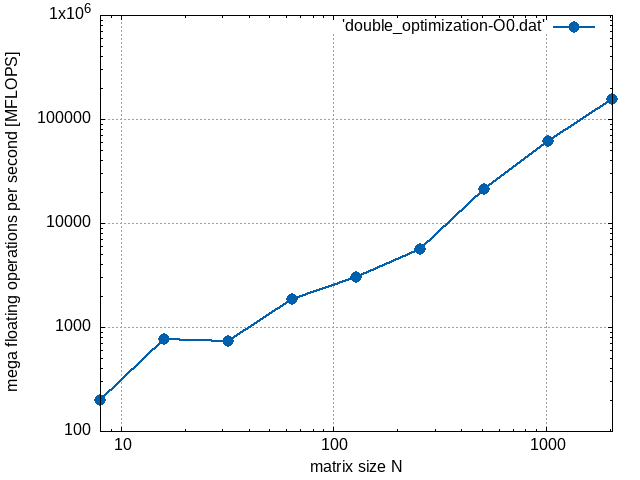
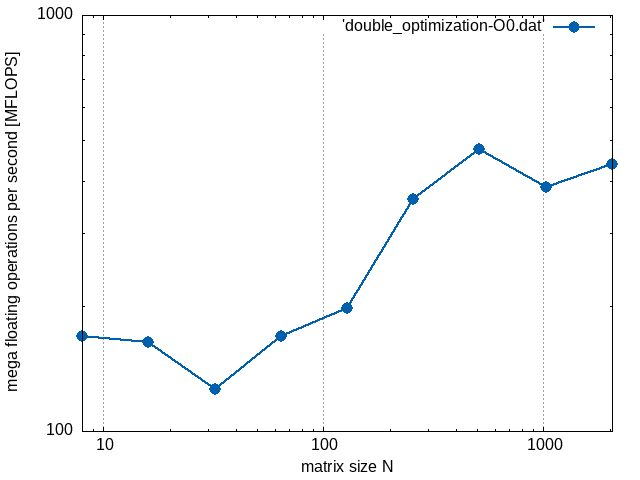
fix time extraction

diff --git a/ex03/solve_double_ijk.c b/ex03/solve_double_ijk.c
@@ -68,7 +68,7 @@ int main(int argc,char *argv[]) {
 
     double st, en;
 
-    st = e_time();
+    
     // inject random numbers
     int i;
     for(i = 0; i < N*N; i++) {
@@ -76,27 +76,29 @@ int main(int argc,char *argv[]) {
         B[i] = rand_double();
         C[i] = rand_double();
     }
-    en = e_time();
-
-    printf("The Elapsed time is %.16f sec\n", en-st);
 
     /* if you want to check whether this programm is correct,
        uncomment below code
-
+       
     printf("[B]\n");
     mat_print(B, N);
 
     printf("[C]\n");
     mat_print(C, N);
+    */
 
+    st = e_time();
     mat_mul(A, B, C, N);
+    en = e_time();
 
+    /*
     printf("[A]\n");
     mat_print(A, N);
-    
+    */
 
+    printf("The Elapsed time is %.16f sec\n", en-st);
+    
     free(A);
     free(B);
     free(C);
-    */
 }

diff --git a/ex03/solve_double_kji.c b/ex03/solve_double_kji.c
@@ -68,7 +68,6 @@ int main(int argc,char *argv[]) {
 
     double st, en;
 
-    st = e_time();
     // inject random numbers
     int i;
     for(i = 0; i < N*N; i++) {
@@ -76,27 +75,30 @@ int main(int argc,char *argv[]) {
         B[i] = rand_double();
         C[i] = rand_double();
     }
-    en = e_time();
-
-    printf("The Elapsed time is %.16f sec\n", en-st);
 
     /* if you want to check whether this programm is correct,
        uncomment below code
-
+       
     printf("[B]\n");
     mat_print(B, N);
 
     printf("[C]\n");
     mat_print(C, N);
+    */
 
+    st = e_time();
     mat_mul(A, B, C, N);
+    en = e_time();
 
+    /*
     printf("[A]\n");
     mat_print(A, N);
-    
+    */
+
+    printf("The Elapsed time is %.16f sec\n", en-st);
 
     free(A);
     free(B);
     free(C);
-    */
+    
 }

diff --git a/ex03/solve_double_jki.c b/ex03/solve_double_jki.c
@@ -68,7 +68,6 @@ int main(int argc,char *argv[]) {
 
     double st, en;
 
-    st = e_time();
     // inject random numbers
     int i;
     for(i = 0; i < N*N; i++) {
@@ -76,27 +75,29 @@ int main(int argc,char *argv[]) {
         B[i] = rand_double();
         C[i] = rand_double();
     }
-    en = e_time();
-
-    printf("The Elapsed time is %.16f sec\n", en-st);
 
     /* if you want to check whether this programm is correct,
        uncomment below code
-
+       
     printf("[B]\n");
     mat_print(B, N);
 
     printf("[C]\n");
     mat_print(C, N);
+    */
 
+    st = e_time();
     mat_mul(A, B, C, N);
+    en = e_time();
 
+    /*
     printf("[A]\n");
     mat_print(A, N);
-    
+    */
 
+    printf("The Elapsed time is %.16f sec\n", en-st);
+    
     free(A);
     free(B);
     free(C);
-    */
 }

diff --git a/ex03/solve_float_ijk.c b/ex03/solve_float_ijk.c
@@ -68,7 +68,6 @@ int main(int argc,char *argv[]) {
 
     double st, en;
 
-    st = e_time();
     // inject random numbers
     int i;
     for(i = 0; i < N*N; i++) {
@@ -76,9 +75,6 @@ int main(int argc,char *argv[]) {
         B[i] = rand_float();
         C[i] = rand_float();
     }
-    en = e_time();
-
-    printf("The Elapsed time is %.16f sec\n", en-st);
 
     /* if you want to check whether this programm is correct,
        uncomment below code
@@ -88,12 +84,18 @@ int main(int argc,char *argv[]) {
 
     printf("[C]\n");
     mat_print(C, N);
+    */
 
+    st = e_time();
     mat_mul(A, B, C, N);
+    en = e_time();
 
+    /*
     printf("[A]\n");
     mat_print(A, N);
     */
+
+    printf("The Elapsed time is %.16f sec\n", en-st);
 
     free(A);
     free(B);

diff --git a/ex03/solve_float_jki.c b/ex03/solve_float_jki.c
@@ -68,7 +68,6 @@ int main(int argc,char *argv[]) {
 
     double st, en;
 
-    st = e_time();
     // inject random numbers
     int i;
     for(i = 0; i < N*N; i++) {
@@ -76,9 +75,6 @@ int main(int argc,char *argv[]) {
         B[i] = rand_float();
         C[i] = rand_float();
     }
-    en = e_time();
-
-    printf("The Elapsed time is %.16f sec\n", en-st);
 
     /* if you want to check whether this programm is correct,
        uncomment below code
@@ -88,12 +84,18 @@ int main(int argc,char *argv[]) {
 
     printf("[C]\n");
     mat_print(C, N);
+    */
 
+    st = e_time();
     mat_mul(A, B, C, N);
+    en = e_time();
 
+    /*
     printf("[A]\n");
     mat_print(A, N);
     */
+
+    printf("The Elapsed time is %.16f sec\n", en-st);
 
     free(A);
     free(B);

diff --git a/ex03/solve_float_kji.c b/ex03/solve_float_kji.c
@@ -68,7 +68,6 @@ int main(int argc,char *argv[]) {
 
     double st, en;
 
-    st = e_time();
     // inject random numbers
     int i;
     for(i = 0; i < N*N; i++) {
@@ -76,9 +75,6 @@ int main(int argc,char *argv[]) {
         B[i] = rand_float();
         C[i] = rand_float();
     }
-    en = e_time();
-
-    printf("The Elapsed time is %.16f sec\n", en-st);
 
     /* if you want to check whether this programm is correct,
        uncomment below code
@@ -88,12 +84,18 @@ int main(int argc,char *argv[]) {
 
     printf("[C]\n");
     mat_print(C, N);
+    */
 
+    st = e_time();
     mat_mul(A, B, C, N);
+    en = e_time();
 
+    /*
     printf("[A]\n");
     mat_print(A, N);
     */
+
+    printf("The Elapsed time is %.16f sec\n", en-st);
 
     free(A);
     free(B);
